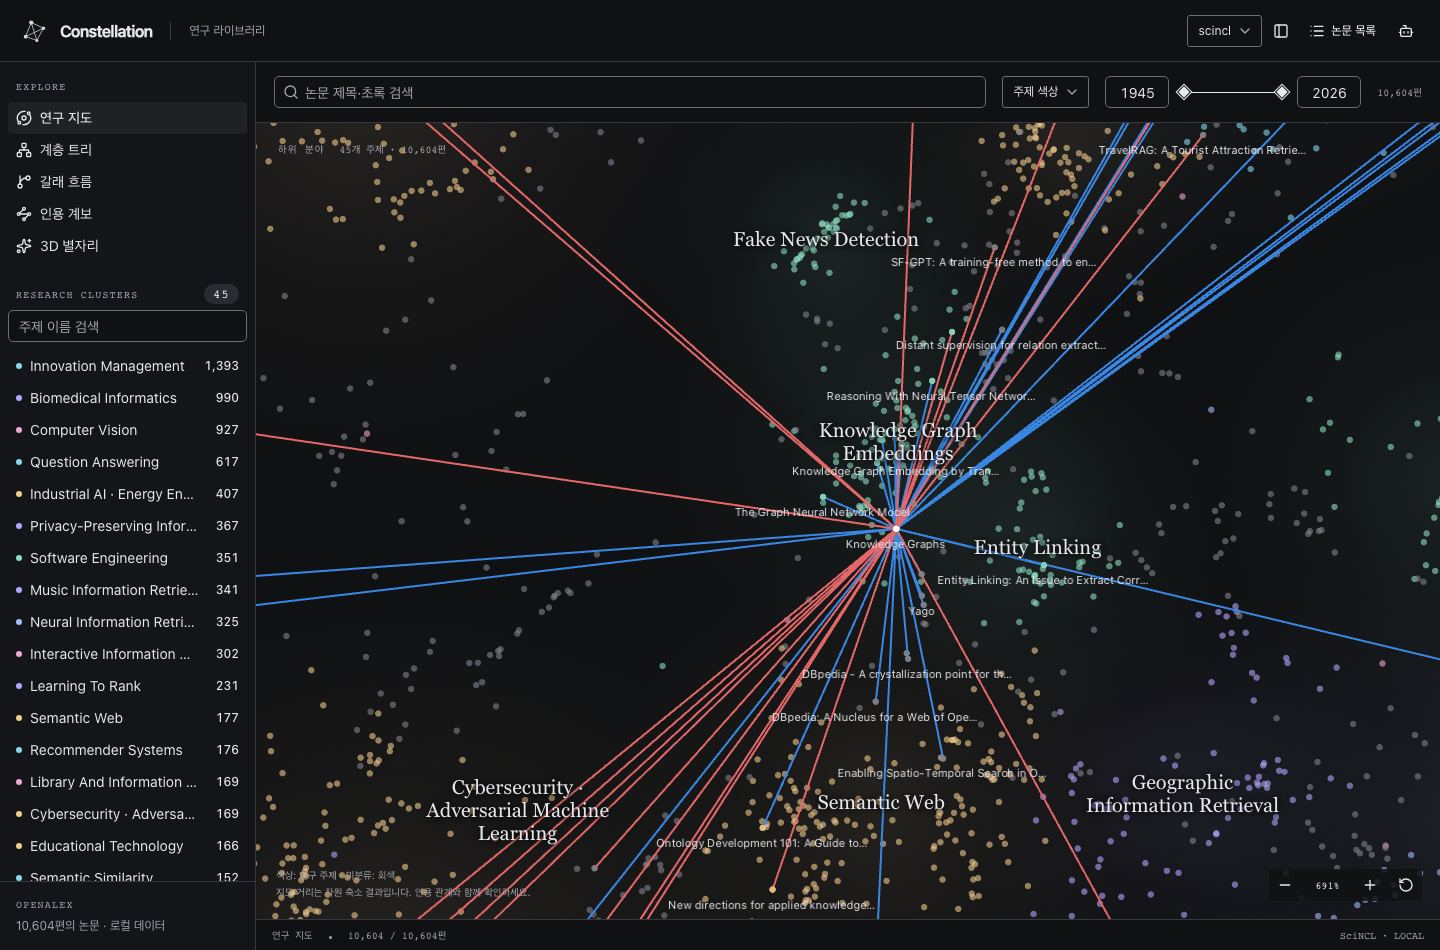
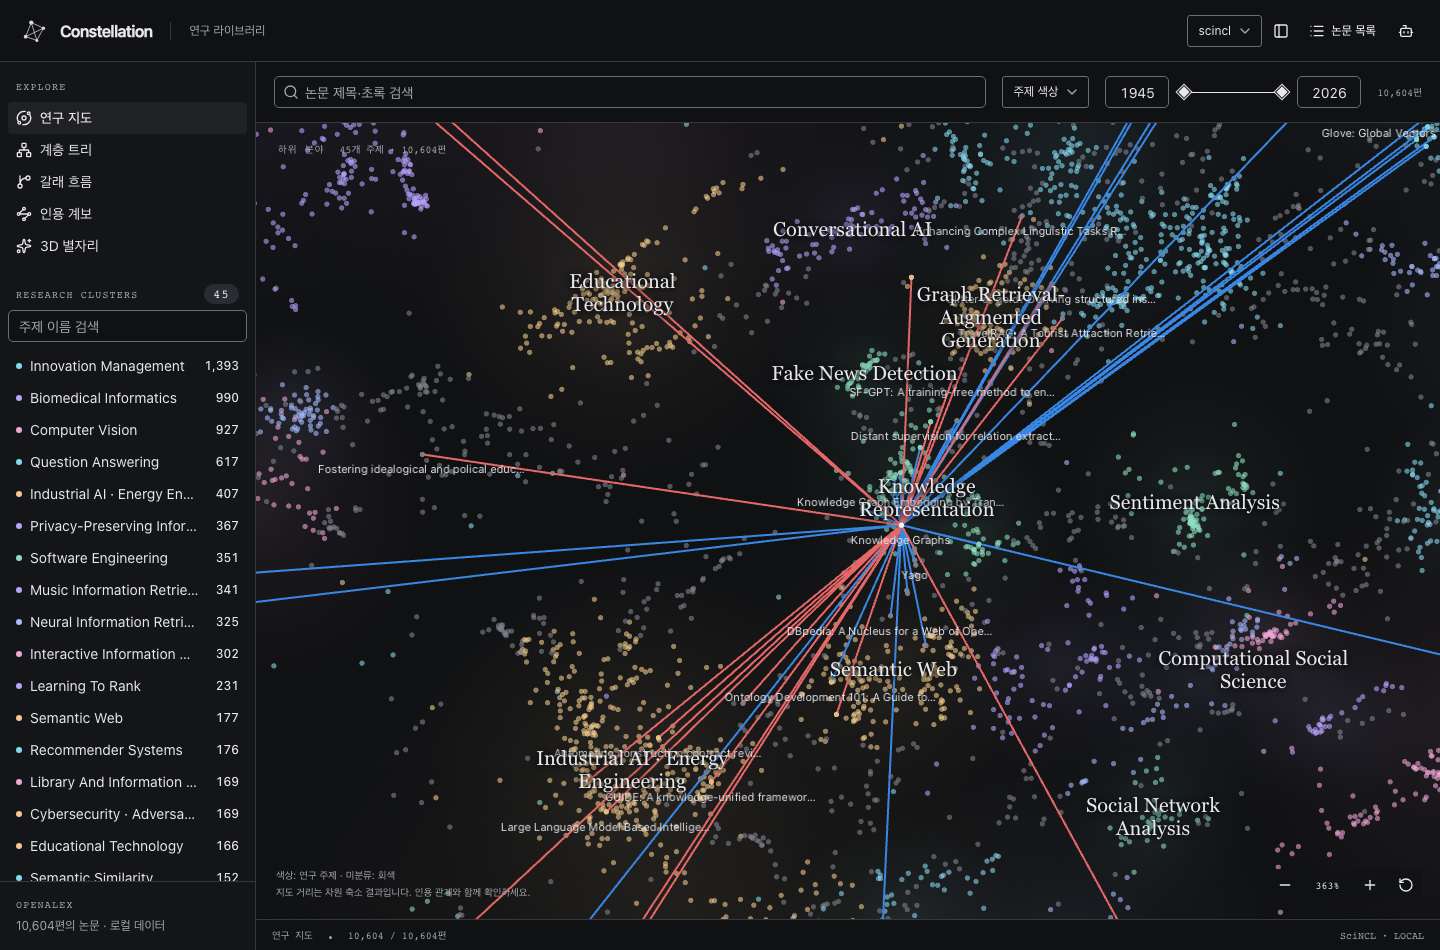
docs: 비교 문서의 2d 판정 수치를 같은 코드의 세 회차로 맞추고 하위 분야 스크린샷을 363%로

diff --git a/.intent/plan_hierarchy-topical.md b/.intent/plan_hierarchy-topical.md
@@ -18,7 +18,7 @@ date: 2026-09-19
 | `backend/constellation/cli.py` | 고침. `hierarchy`에 `--method`, `--levels` 해석, `--compare` |
 | `backend/tests/test_hierarchy.py` | 새로 만듦. 제약 Ward·변 되살리기·문턱 절단·지표 계산 |
 | `docs/HIERARCHY-COMPARISON.md` | 새로 만듦. 비교 표·이름 목록·스크린샷 |
-| `docs/screenshots/hierarchy-2d.png`, `hierarchy-topical.png` | 새로 만듦 |
+| `docs/screenshots/hierarchy-{2d,topical}-{field,topic}.png` | 새로 만듦. 상위·하위 분야 배율 각각 |
 | `README.md` | 고침. 파이프라인 절에 `--method`, `--compare` 한 줄 |
 
 구현 중 이 표에서 벗어나면 같은 커밋에서 이 파일을 고친다.
@@ -28,8 +28,8 @@ date: 2026-09-19
 1. `hierarchy.py` 리팩터 — 병합·집계·절단을 나누고 `2d` 경로가 지금과 같은 트리를 내는지 확인: 리팩터 전후 `build(dry_run=True)` 결과(`Z`, 레벨 노드 집합)를 스크래치에서 비교해 같아야 한다.
 2. `_merges_topical` + 문턱 절단 + `evaluate_tree` + `compare`. 확인: `hierarchy --compare`가 표를 찍고, topical 레벨 0이 프로토타입(16개 그룹, cost ≤ 0.15~0.16)과 같다.
 3. `test_hierarchy.py`. 확인: unittest 통과.
-4. 스크래치 A(2d, 이미 naming 완료된 현재 DB 사본)와 스크래치 B(topical → name). 확인: B의 레벨 수·응집 비율·이름 목록.
-5. 스크린샷 — B의 DB로 API 서버를 띄워 지도 초기 화면과 한 단계 확대를 찍는다. A는 현재 실제 DB(이미 2d + naming) 화면. `docs/screenshots/`에 저장.
+4. 스크래치 A(2d 트리에 현재 코드로 `name` 1회)와 스크래치 B(topical → `name` 2회). 확인: 레벨 수·응집 비율·이름 목록. 2d의 나머지 두 회차는 PR #13 작업 중 실제 DB에 돌린 결과를 쓴다.
+5. 스크린샷 — B의 DB로 API 서버(8002)를 띄우고, 같은 워크트리 프런트를 B(5174)와 실제 DB API 8000(5175)에 각각 붙여 Playwright(`chromium`, 1440×950)로 기준 배율과 363%(하위 분야)를 찍는다. 두 화면이 같은 프런트 코드를 쓴다. `docs/screenshots/`에 저장.
 6. `docs/HIERARCHY-COMPARISON.md` 작성, README 한 줄. 커밋·푸시·PR(base: `feat/naming-cli`).
 
 ## 가장 위험한 단계
